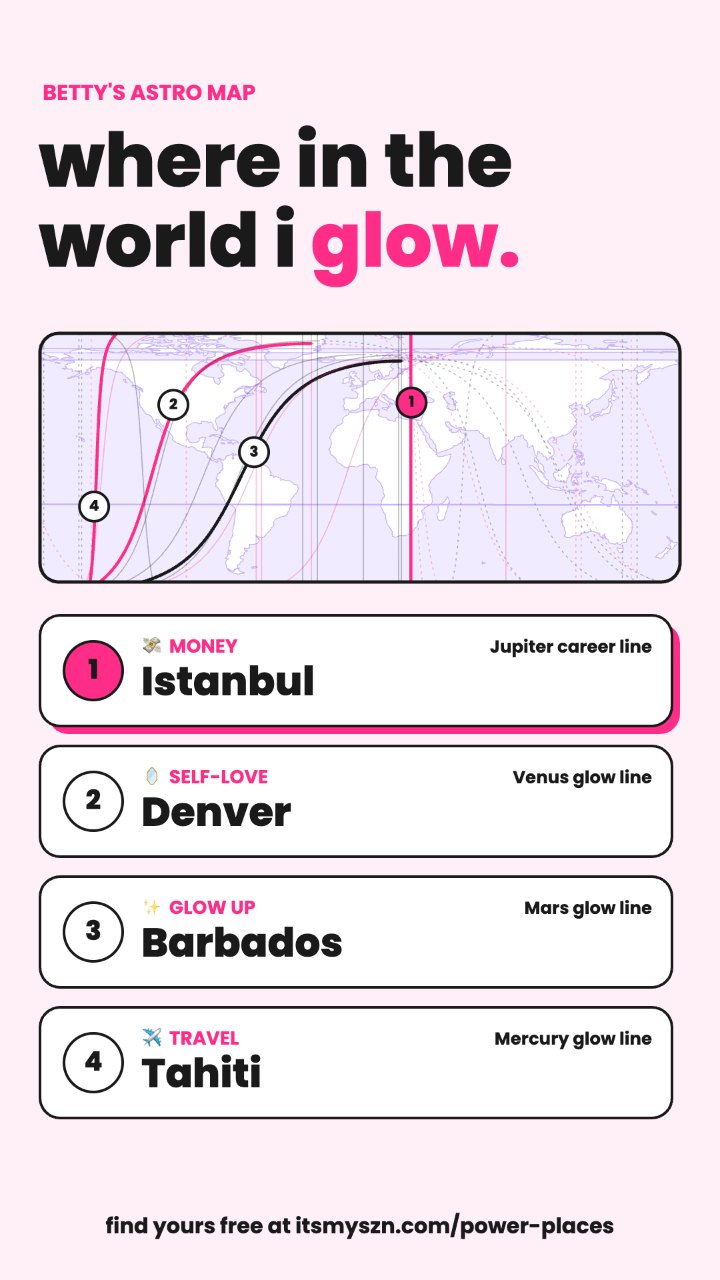
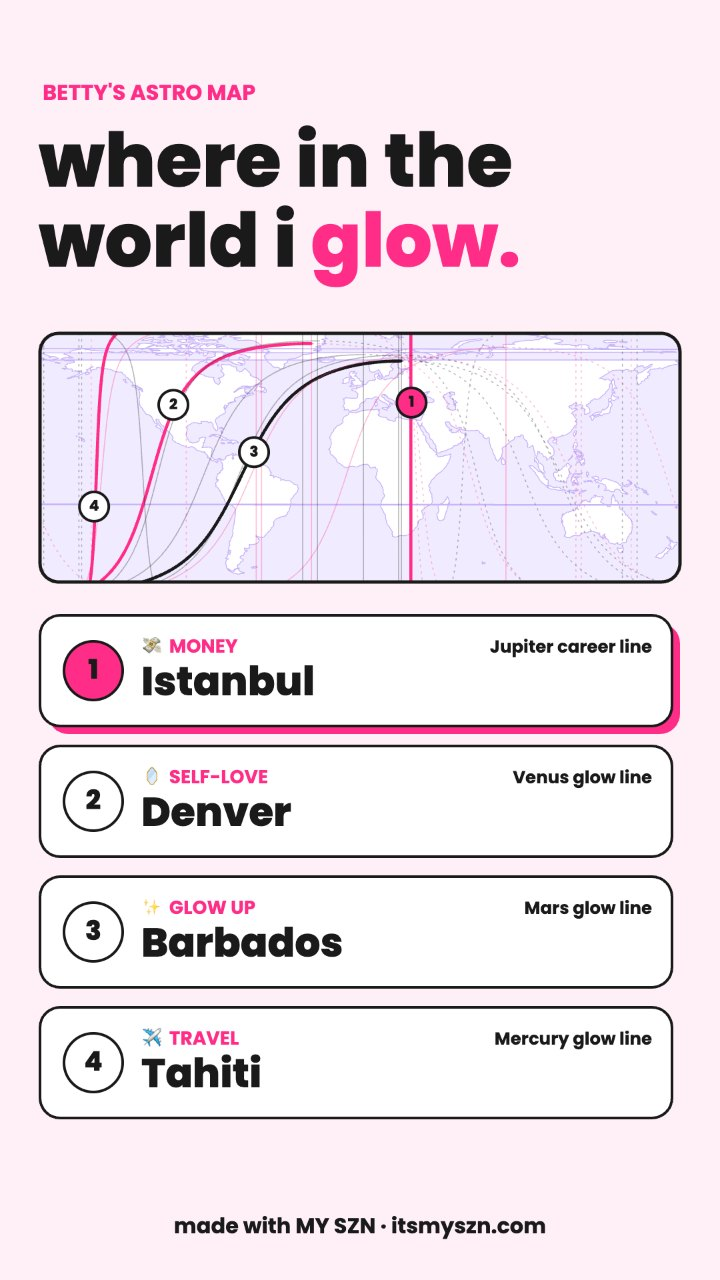
Astro map: no free version; /power-places goes to the Coven, footer + sitemap links removed

Changed region(s): [[0.1528, 0.9375, 0.8556, 0.9688]]

diff --git a/src/app/power-places/page.tsx b/src/app/power-places/page.tsx
@@ -1,79 +1,7 @@
-import BirthDataForm from "@/components/BirthDataForm";
-import { OG_IMAGE } from "@/lib/site";
-import "../your-season/places/places.css";
+import { redirect } from "next/navigation";
 
-export const metadata = {
-  title: "Free Astrocartography Chart | Where in the World You Glow",
-  description:
-    "Your free astrocartography map from your exact birth details: the cities where you find love, make money and glow up, on an interactive map you can share.",
-  alternates: { canonical: "/power-places" },
-  openGraph: {
-    title: "Free Astrocartography Chart, MY SZN",
-    description: "Where in the world you glow: your love, money and glow-up cities from your birth chart.",
-    url: "/power-places",
-    type: "website",
-    images: [OG_IMAGE],
-  },
-  twitter: { card: "summary_large_image", images: [OG_IMAGE.url] },
-};
-
-const FAQS = [
-  {
-    q: "What is astrocartography?",
-    a: "The minute you were born, every planet was rising, setting, overhead or underneath somewhere on earth. Astrocartography draws those spots as lines across the world map, and living, travelling or holidaying near a line switches that planet on in your life: Venus lines for love, Jupiter lines for luck and money, Sun lines for being seen.",
-  },
-  {
-    q: "Do I need my exact birth time?",
-    a: "Yes, as close as you can get it. Four minutes of birth time shifts every line by about 1°, roughly 70 to 110km, so your birth certificate time gives you the most accurate map.",
-  },
-  {
-    q: "What do I get for free?",
-    a: "Your top three cities to live, to travel, for love, for money and for a glow up, your full map of planet lines, and a story-sized card to share. Members of The Bad B*tch Coven get every goal, any town on earth, their chart redrawn for anywhere they live, when their lines light up this year and a girls' trip planner.",
-  },
-];
-
-const jsonLd = {
-  "@context": "https://schema.org",
-  "@type": "FAQPage",
-  mainEntity: FAQS.map((f) => ({ "@type": "Question", name: f.q, acceptedAnswer: { "@type": "Answer", text: f.a } })),
-};
-
-export default function PowerPlacesFreePage() {
-  return (
-    <div className="acg">
-      <script type="application/ld+json" dangerouslySetInnerHTML={{ __html: JSON.stringify(jsonLd) }} />
-      <section className="hero">
-        <div className="wrap">
-          <div className="tag">free astrocartography</div>
-          <h1><span className="holo-text">where in the world you glow.</span></h1>
-          <p>Your birth chart drawn across the world map. Pop in your birth details and see the cities where you fall in love, make serious money and glow up, plus a card to share with your besties.</p>
-        </div>
-      </section>
-      <section>
-        <div className="wrap">
-          <div className="mapcard" style={{ padding: "22px 18px", marginTop: 28 }}>
-            <BirthDataForm
-              destination="/power-places/you"
-              leadSource="free-power-places"
-              computeAstrology={false}
-              submitLabel="show me my places"
-              loadingLabel="drawing your map..."
-            />
-          </div>
-          <div className="block">
-            <div className="tag">good to know</div>
-            <h2 className="h2" style={{ marginTop: 8 }}>your lines, explained.</h2>
-          </div>
-          <div className="timing" style={{ paddingBottom: 56 }}>
-            {FAQS.map((f) => (
-              <div className="tcard" key={f.q}>
-                <h4 style={{ marginTop: 0 }}>{f.q}</h4>
-                <p>{f.a}</p>
-              </div>
-            ))}
-          </div>
-        </div>
-      </section>
-    </div>
-  );
+// The astro map is members only (no free version, Betty 25 Nov 2026). Old links, including the
+// footer on share cards made before this, land on the Coven.
+export default function PowerPlacesRedirect() {
+  redirect("/baddie-coven");
 }

diff --git a/src/lib/astrocartography/mount.js b/src/lib/astrocartography/mount.js
@@ -823,7 +823,7 @@ async function drawCard() {
     x.fillStyle = "#1a1a1a"; let fs = 60; x.font = `800 ${fs}px ${fam}`; while (x.measureText(p.c.name).width > 760 && fs > 36) { fs -= 4; x.font = `800 ${fs}px ${fam}`; } x.fillText(p.c.name, 212, y0 + 120);
     x.font = `700 26px ${fam}`; x.textAlign = "right"; x.fillText(`${p.h.line.planet} ${ANGLE_LINE[p.h.line.angle]}`, 978, y0 + 56); x.textAlign = "left";
   });
-  x.fillStyle = "#1a1a1a"; x.textAlign = "center"; x.font = `700 32px ${fam}`; x.fillText("find yours free at itsmyszn.com/power-places", 540, 1850);
+  x.fillStyle = "#1a1a1a"; x.textAlign = "center"; x.font = `700 32px ${fam}`; x.fillText("made with MY SZN · itsmyszn.com", 540, 1850);
   return new Promise((res) => cv.toBlob(res, "image/png"));
 }
 let shareUrl = null;

diff --git a/src/app/sitemap.ts b/src/app/sitemap.ts
@@ -16,7 +16,6 @@ export default function sitemap(): MetadataRoute.Sitemap {
   const core: MetadataRoute.Sitemap = [
     { url: SITE_URL, lastModified: now, changeFrequency: "weekly", priority: 1 },
     { url: `${SITE_URL}/chart`, lastModified: now, changeFrequency: "monthly", priority: 0.9 },
-    { url: `${SITE_URL}/power-places`, lastModified: now, changeFrequency: "monthly", priority: 0.8 },
     { url: `${SITE_URL}/mastermind`, lastModified: now, changeFrequency: "weekly", priority: 0.9 },
     { url: `${SITE_URL}/reports`, lastModified: now, changeFrequency: "monthly", priority: 0.8 },
     { url: `${SITE_URL}/reports/rich-btch-rising`, lastModified: now, changeFrequency: "monthly", priority: 0.8 },

diff --git a/src/app/layout.tsx b/src/app/layout.tsx
@@ -168,7 +168,6 @@ export default function RootLayout({
               // sitemap to be discovered, which is a much weaker signal than being linked from
               // every page.
               { label: "reports", href: "/reports" },
-              { label: "free astro map", href: "/power-places" },
               { label: "coven", href: "/baddie-coven" },
               { label: "mastermind", href: "/mastermind" },
               { label: "retreat", href: "/retreat" },
